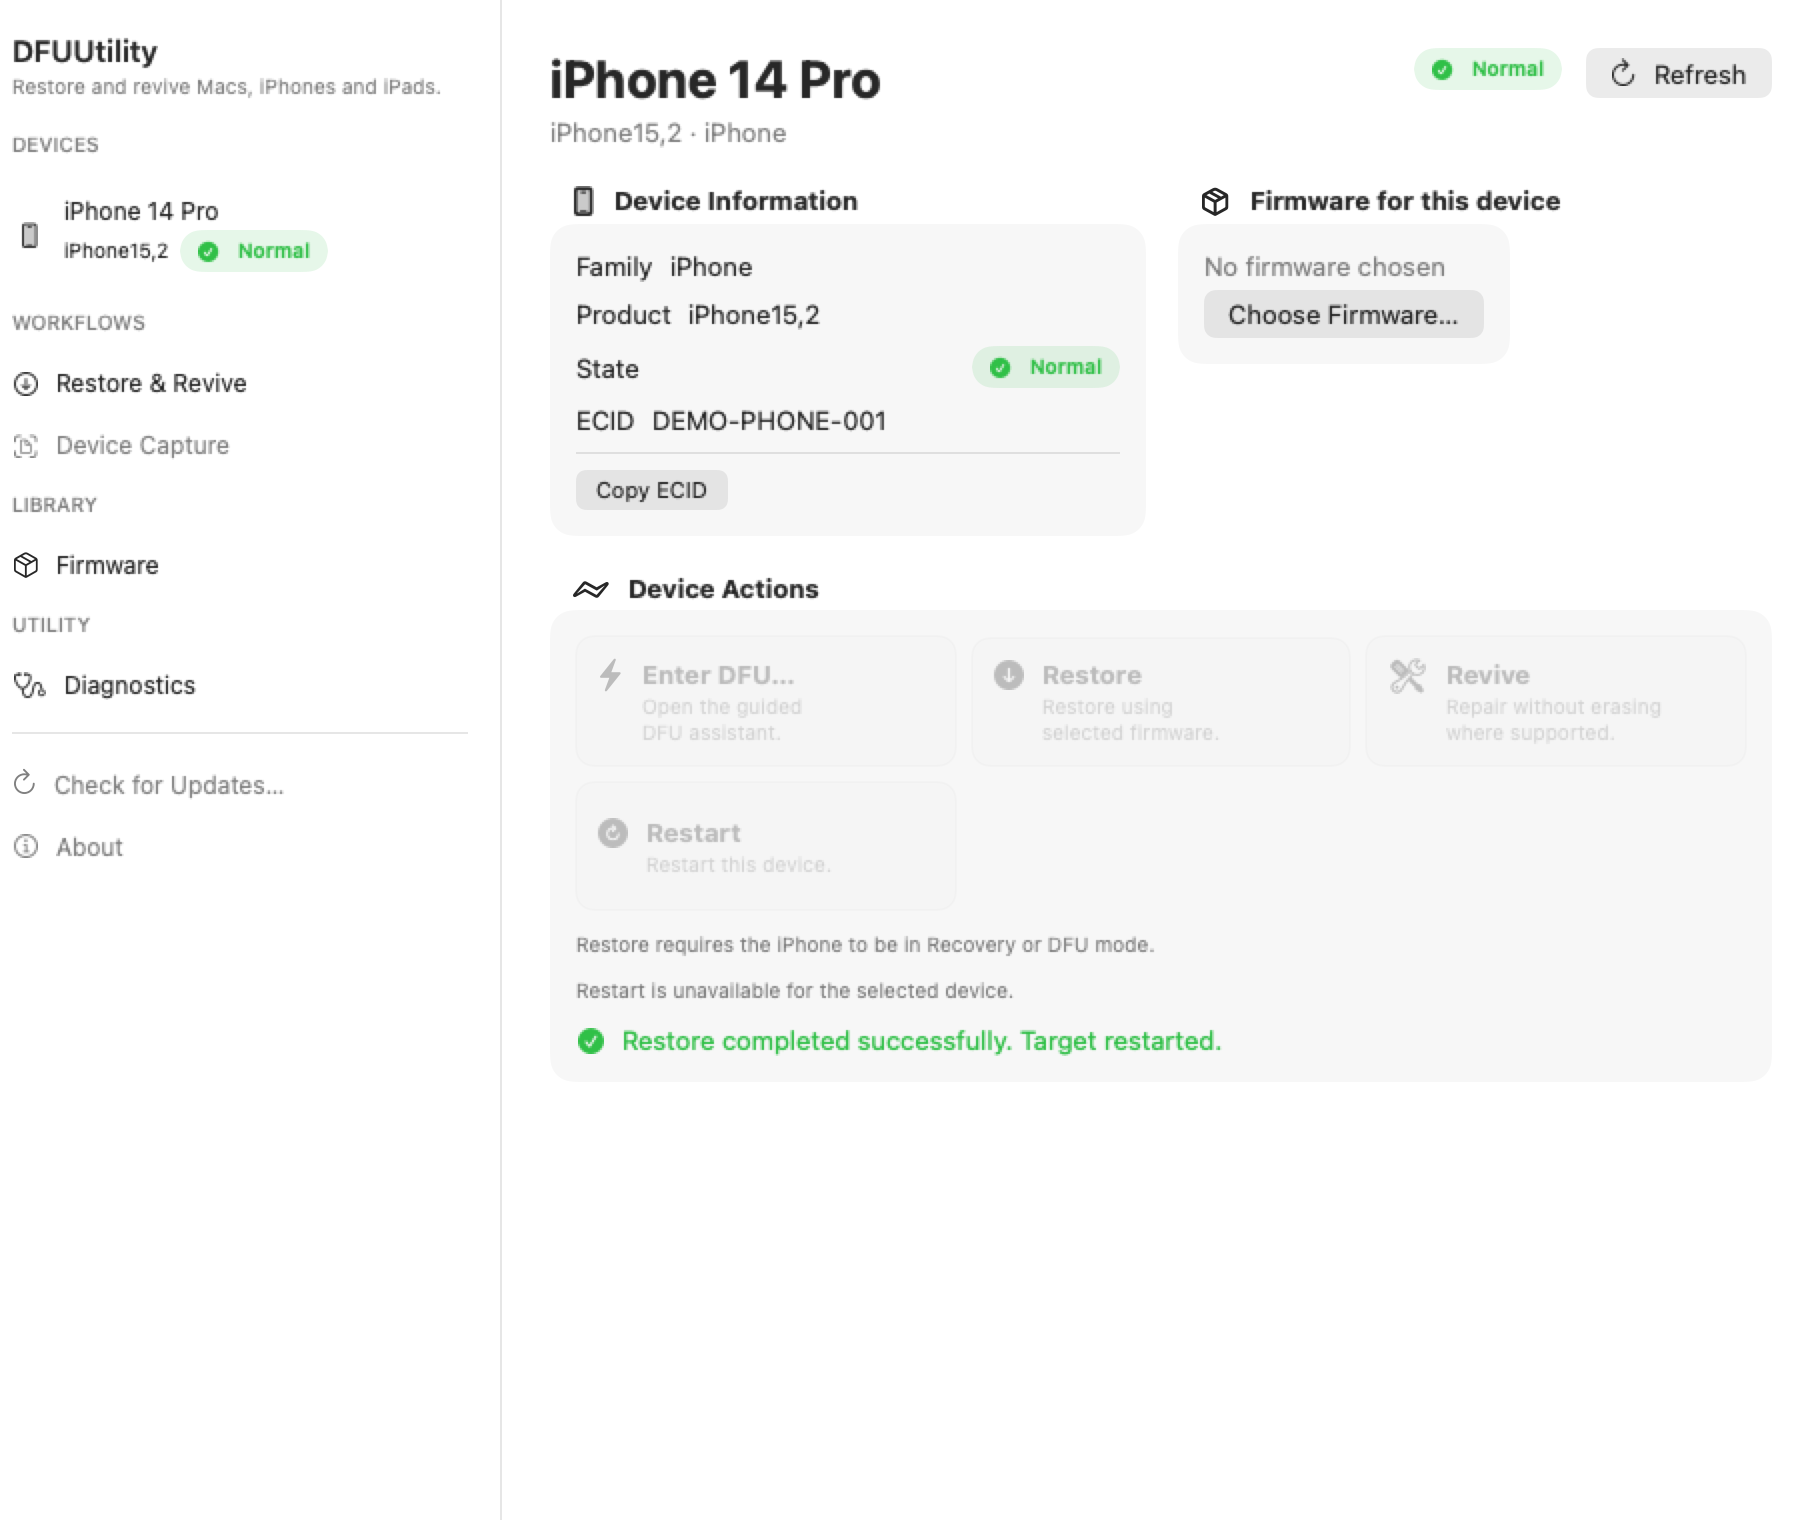
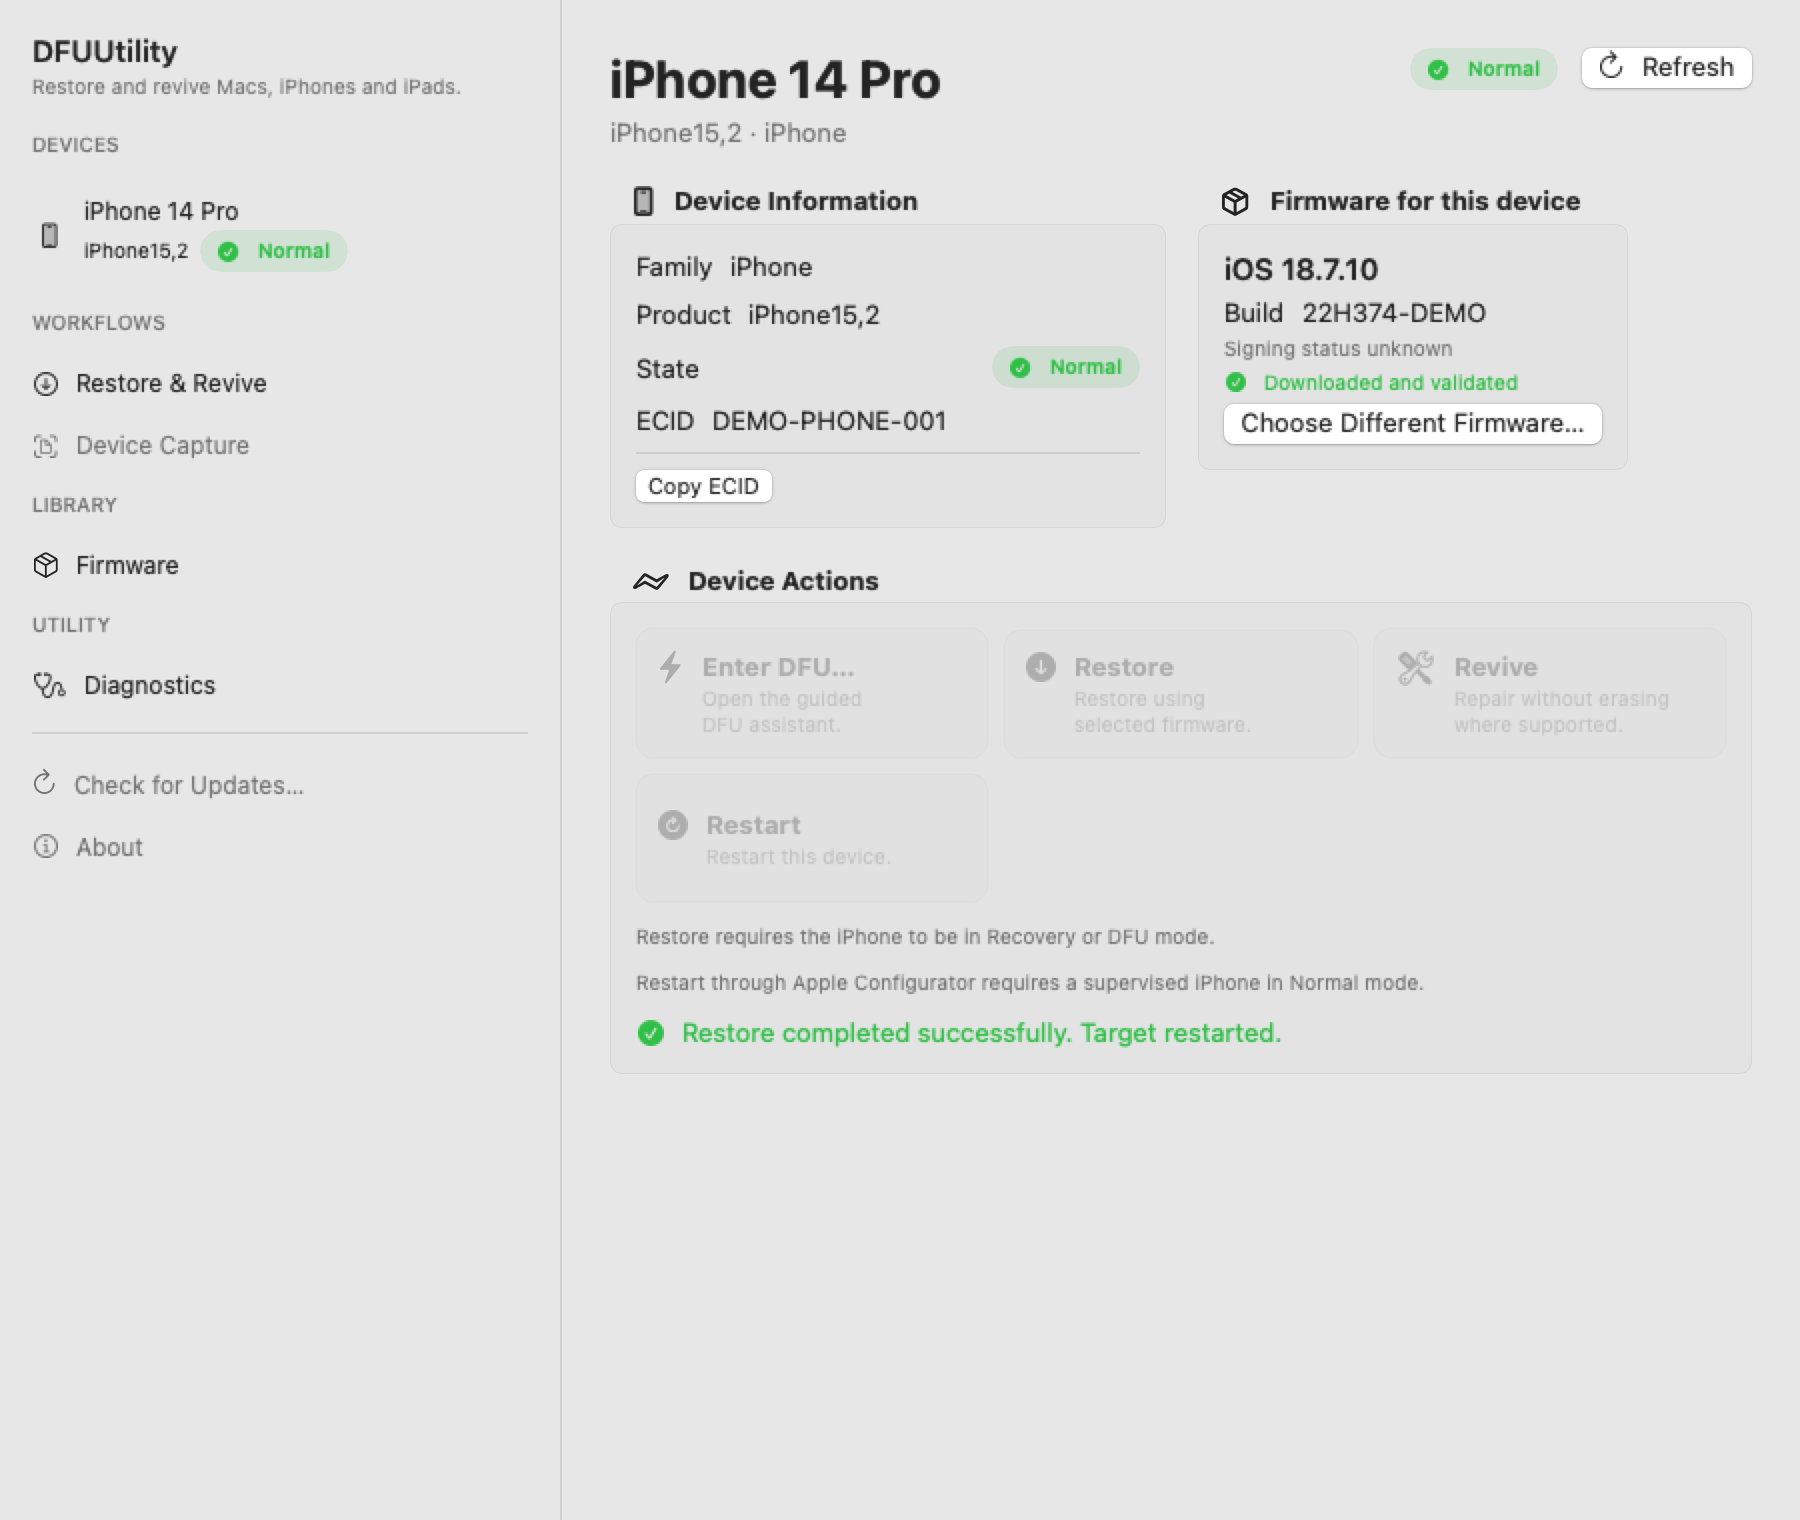
Refresh public documentation and screenshots

diff --git a/Sources/DFUAppSupport/AppModel.swift b/Sources/DFUAppSupport/AppModel.swift
@@ -243,7 +243,11 @@ public final class AppModel: ObservableObject {
         let resolvedMode = privilegeMode ?? (requiresPrivilegedHelperSetup ? PrivilegeModeSelector.select() : .community)
         let sessionManager = DeviceSessionManager()
         self.deviceSessions = sessionManager
-        self.captureSession = DeviceCaptureSession()
+        // Keep demo screenshots reproducible without changing the production
+        // capture clock used by normal launches.
+        self.captureSession = screenshotScenario == nil
+            ? DeviceCaptureSession()
+            : DeviceCaptureSession(now: { Date(timeIntervalSinceReferenceDate: 0) })
         self.batchCoordinator = BatchCoordinator(sessions: sessionManager, operatorService: DefaultBatchTargetOperator(restore: restoreEngine, discovery: discovery, reconnectAttempts: reconnectAttempts, reconnectInterval: reconnectInterval), logger: operationLogger)
         self.updateCoordinator = updateCoordinator ?? UpdateCoordinator()
         self.applicationTerminator = applicationTerminator ?? NoOpApplicationTerminator()
@@ -583,6 +587,22 @@ public final class AppModel: ObservableObject {
         }
         selectedTargetECID = targetDevices.count == 1 ? targetDevices[0].ecid : nil
         if scenario != "multiple-devices" && !isDeviceCaptureScenario { deviceSessions.reconcile(targetDevices) }
+        // Populate the connected-device demo views with the same validated
+        // firmware presentation a technician sees after preparing an image.
+        // This is fixture state only; no production discovery or assignment
+        // behavior is changed.
+        if let session = deviceSessions.sessions.first(where: { $0.isConnected }) {
+            let demoEntry: ManagedIPSWEntry? = if scenario == "normal-mac" || scenario == "mac-dfu" {
+                DemoFirmwareLibrary.cachedEntries.first { $0.release.platform == .macOS }
+            } else if scenario == "restore-progress" || scenario == "progress" || scenario == "completed-restore" || scenario == "completed" {
+                DemoFirmwareLibrary.cachedEntries.first { $0.release.platform == .iOS && $0.release.build == cachedIOS.build }
+            } else {
+                nil
+            }
+            if let demoEntry {
+                deviceSessions.setFirmware(for: session.id, release: demoEntry.release, url: demoEntry.url, validation: .validated)
+            }
+        }
         if scenario == "restore-progress" || scenario == "progress" || scenario == "completed-restore" || scenario == "completed" {
             operationSessionID = detailedSession?.id
         }

diff --git a/Sources/DFUUtilityApp/ContentView.swift b/Sources/DFUUtilityApp/ContentView.swift
@@ -28,6 +28,28 @@ struct ContentView: View {
     init(model: AppModel) {
         self.model = model
         _showVersions = State(initialValue: CommandLine.arguments.contains("--show-version-chooser"))
+        // Screenshot renders are created directly in an NSHostingView, so
+        // SwiftUI's asynchronous `.task` cannot be relied on to select the
+        // intended workspace before the first bitmap is captured. Seed the
+        // presentation destination for deterministic demo images; ordinary
+        // launches retain the Restore & Revive default and normal auto-select.
+        let initialDestination: SidebarDestination = if let scenario = model.screenshotPresentationScenario {
+            switch scenario {
+            case let value where value.hasPrefix("device-capture"): .deviceCapture
+            case "diagnostics": .diagnostics
+            case "firmware-library": .firmware
+            default:
+                if let session = model.deviceSessions.sessions.first(where: { $0.isConnected }),
+                   model.deviceSessions.sessions.filter(\.isConnected).count == 1 {
+                    .device(session.id)
+                } else {
+                    .restoreRevive
+                }
+            }
+        } else {
+            .restoreRevive
+        }
+        _destination = State(initialValue: initialDestination)
     }
 
     var body: some View {

diff --git a/Sources/DFUAppSupport/UpdateSupport.swift b/Sources/DFUAppSupport/UpdateSupport.swift
@@ -142,7 +142,10 @@ public struct ShellUpdateService: UpdateServicing {
 
 #if DEBUG
 public struct SimulatedUpdateService: UpdateServicing {
-    public static let availability = UpdateAvailability(currentVersion: "0.6.1", latestVersion: "0.7.0-test", currentCommit: "update-test-current", latestCommit: "update-test-latest")
+    // Synthetic source-update values keep the demo screenshot representative
+    // of the current release-era UI without contacting GitHub or changing the
+    // production updater's release discovery path.
+    public static let availability = UpdateAvailability(currentVersion: "0.11.0", latestVersion: "0.11.1", currentCommit: "update-test-current", latestCommit: "update-test-latest")
     public init() {}
     public func check(sourceRoot: URL) async throws -> AppUpdateState { .available(Self.availability) }
     public func launch(sourceRoot: URL, oldPID: Int32, appURL: URL, resultURL: URL) throws {}

diff --git a/Sources/DFUAppSupport/DeviceCaptureSession.swift b/Sources/DFUAppSupport/DeviceCaptureSession.swift
@@ -72,8 +72,9 @@ public enum DeviceCaptureQRCode {
 public final class DeviceCaptureSession: ObservableObject {
     @Published public private(set) var records: [DeviceCaptureRecord] = []
     @Published public var isAutomaticCaptureEnabled = false
+    private let now: @Sendable () -> Date
 
-    public init() {}
+    public init(now: @escaping @Sendable () -> Date = Date.init) { self.now = now }
 
     @discardableResult
     public func capture(_ device: DFUDevice, assetTag: String? = nil) -> DeviceCaptureRecord {
@@ -84,7 +85,7 @@ public final class DeviceCaptureSession: ObservableObject {
             records[index] = record
             return record
         }
-        let record = DeviceCaptureRecord(device: device, assetTag: assetTag)
+        let record = DeviceCaptureRecord(capturedAt: now(), device: device, assetTag: assetTag)
         records.append(record)
         return record
     }

diff --git a/Tests/DFUAppSupportTests/UpdateSupportTests.swift b/Tests/DFUAppSupportTests/UpdateSupportTests.swift
@@ -218,7 +218,7 @@ private struct BinaryHTTPFixture: HTTPDataFetching {
     #expect(coordinator.state == .preparing); #expect(coordinator.launchSucceeded)
     coordinator.completeSimulation()
     #expect(coordinator.state == .current)
-    #expect(coordinator.pendingResult == .init(outcome: .success, oldVersion: "0.6.1", newVersion: "0.7.0-test", isSimulation: true))
+    #expect(coordinator.pendingResult == .init(outcome: .success, oldVersion: "0.11.0", newVersion: "0.11.1", isSimulation: true))
 }
 
 @Test func updateAcceptanceArgumentIsRejectedForPackagedApplication() {

diff --git a/README.md b/README.md
@@ -1,32 +1,27 @@
 # DFUUtility
 
-DFUUtility is an open-source native macOS utility for entering supported Macs into DFU mode and restoring or reviving Apple devices with Apple IPSWs.
+DFUUtility is a free, open-source native macOS utility for technicians who
+prepare, recover, restore, and inventory supported Apple devices. It provides
+a guided interface for Mac DFU, iPhone/iPad DFU, Apple firmware, and device
+identity workflows without requiring Git, Swift, Xcode, or direct use of
+Apple's command-line tools for normal operation.
 
-## What does this actually do?
-
-DFUUtility helps you recover, restore, and manage Apple devices from a Mac without needing to know all of Apple's command-line tools.
-
-If a Mac, iPhone, or iPad needs to be restored, revived, put into DFU mode, or have its firmware reinstalled, DFUUtility gives you a graphical interface that guides you through the process.
-
-It's particularly useful for IT technicians managing Apple devices, but it's designed so you don't need to understand the commands happening underneath. It can find connected devices, download the correct Apple firmware, guide you through DFU mode, perform restores and revives, and show you what's happening as it works.
-
-Basically: plug in the Apple device, choose what you need to do, and DFUUtility handles the complicated bits.
-
-For example, if a MacBook won't boot properly, connect it to another Mac, open DFUUtility, follow the instructions to put it into DFU mode, and choose **Revive** or **Restore**. DFUUtility handles the Apple tooling and firmware workflow.
-
-![DFUUtility multi-device workflow](docs/images/multiple-devices.png)
+Connect a device with a data-capable cable, choose the workflow, and follow
+the on-screen checks. DFUUtility keeps destructive actions explicit and shows
+the stage and progress reported by Apple Configurator while it works.
 
 Community releases are ad-hoc signed. No paid Apple Developer account is
 required, but Community builds do not provide Developer ID publisher
 authentication or notarization.
 
-## Features
+## Key capabilities
 
 ### Mac
 
 - Detect Normal, Recovery, and DFU targets and preserve the target ECID across transitions.
 - Enter DFU using the bundled `macvdmtool` and standard macOS administrator authorization.
 - Restore or Revive through Apple Configurator with real stage-local progress and operation logs.
+- Verify the same target before reporting a successful DFU transition.
 
 ### iPhone and iPad
 
@@ -34,6 +29,7 @@ authentication or notarization.
 - Guide supported physical-button DFU sequences without sending device commands.
 - Require same-ECID DFU enumeration before reporting success.
 - Restore compatible validated IPSWs with destructive confirmation and live progress.
+- Perform Recovery Restore on supported iPhone and iPad targets.
 
 ### Firmware management
 
@@ -42,6 +38,12 @@ authentication or notarization.
 - Inspect storage, reveal files, resume partials, and confirm removal in **Manage Downloads…**.
 - Select a local IPSW without placing it under DFUUtility's cache management.
 - Automatically assign an exact compatible validated cached IPSW to a newly discovered iPhone or iPad without selecting the device or starting an operation.
+
+### Technician workspace
+
+- Work with multiple connected devices as independent sessions and run an explicitly selected Restore, Revive, or Restart batch sequentially.
+- Capture read-only device identifiers, add an internal asset tag, generate an exact-serial QR code, and export CSV.
+- Inspect Diagnostics and Host Readiness guidance for Apple Configurator, bundled tools, accessory authorization, and sanitized support reports.
 
 ### Safety
 
@@ -63,27 +65,53 @@ Batch execution is intentionally sequential in this first implementation. Parall
 
 ## Screenshots
 
-| Guided iPhone DFU | Guided iPad DFU |
-| --- | --- |
-| ![Guided iPhone DFU](docs/images/iphone-guided-dfu.png) | ![Guided iPad DFU](docs/images/ipad-guided-dfu.png) |
+The gallery below uses the deterministic demo mode shipped with the project.
+All identities are fictional and the views show the same navigation and safety
+gates used by the app.
 
-| Firmware chooser | Manage Downloads |
+| Restore & Revive | Device workspace |
 | --- | --- |
-| ![Compatible firmware chooser](docs/images/firmware-chooser.png) | ![Managed firmware cache](docs/images/manage-downloads.png) |
+| ![Restore and Revive workspace](docs/images/multiple-devices.png) | ![Connected Mac workspace](docs/images/normal-mac.png) |
 
-| Download progress | Restore progress |
+| Firmware Library | Device Capture |
 | --- | --- |
-| ![Firmware download progress](docs/images/download-progress.png) | ![Structured Restore progress](docs/images/restore-progress.png) |
+| ![Firmware Library](docs/images/firmware-library.png) | ![Device Capture and identifiers](docs/images/device-capture-default.png) |
 
-| Completed Restore |
-| --- |
-| ![Completed Restore and returned target](docs/images/completed-restore.png) |
+| Diagnostics / Host Readiness | Guided mobile DFU |
+| --- | --- |
+| ![Diagnostics and Host Readiness](docs/images/diagnostics.png) | ![Guided iPhone DFU](docs/images/iphone-guided-dfu.png) |
+
+| Guided iPad DFU | Firmware chooser |
+| --- | --- |
+| ![Guided iPad DFU](docs/images/ipad-guided-dfu.png) | ![Compatible firmware chooser](docs/images/firmware-chooser.png) |
+
+| Download progress | Manage Downloads |
+| --- | --- |
+| ![Firmware download progress](docs/images/download-progress.png) | ![Managed firmware cache](docs/images/manage-downloads.png) |
+
+| Restore progress | Completed Restore |
+| --- | --- |
+| ![Structured Restore progress](docs/images/restore-progress.png) | ![Completed Restore and returned target](docs/images/completed-restore.png) |
+
+| About and licensing | Source-checkout update |
+| --- | --- |
+| ![About and licensing](docs/images/about.png) | ![Source-checkout update](docs/images/update.png) |
 
 All screenshots use deterministic fictional data; they contain no real device or user identifiers.
 
-## Installation
+## Requirements
 
-Requirements: macOS 14 or newer, [Apple Configurator](https://apps.apple.com/app/apple-configurator/id1037126344), a data-capable cable, and internet access for automatic firmware downloads. The current Mac DFU workflow requires an Apple Silicon host. Administrator authorization is requested only when entering a Mac into DFU.
+- macOS 14 or newer.
+- Apple Configurator from the [Mac App Store](https://apps.apple.com/app/apple-configurator/id1037126344) for discovery, Restore, and Revive.
+- A direct, data-capable USB connection. Charging-only cables and some hubs do not provide a usable restore transport.
+- An Apple-silicon Mac host for automatic Mac DFU entry. Mac DFU port requirements are model-specific; follow Apple's guidance and the tested-hardware notes below.
+- Administrator authorization only when entering a Mac into DFU. Mobile DFU uses physical button input.
+- Internet access only when browsing or downloading firmware from Apple's catalogues.
+
+DFUUtility does not claim universal Apple hardware support. Physical acceptance
+applies only to the products and workflows listed in [HardwareAcceptance.json](Config/HardwareAcceptance.json).
+
+## Installation
 
 ### End-user installation
 
@@ -192,13 +220,43 @@ scripts/update.sh --test     # Run the repository tests before installation
 
 The flags may be combined. In-app and shell updates are intended for clean end-user clones. Contributors with local changes or feature branches should manage their Git checkout manually; the updater never stashes, resets, cleans, switches branches, or discards work.
 
-## Usage
+## Using DFUUtility
 
-1. Connect the target with a data-capable cable and select it if more than one device is attached.
-2. Choose compatible Apple firmware with **Change Version…**, or use **Choose Local IPSW…**.
-3. Download and validate the image if needed.
-4. Enter DFU: Mac entry is initiated by the app; supported iPhone/iPad entry follows the guided physical-button assistant.
-5. Choose Revive where supported, or confirm Restore.
+### Select and prepare a device
+
+Connect the target with a data-capable cable. With one device, DFUUtility
+selects it for the detail workspace; with multiple devices, select the target
+explicitly. The **Firmware Library** can also be browsed before any device is
+connected.
+
+### Choose and validate firmware
+
+For a connected target, use **Choose Firmware…** or **Change Version…** to see
+exact ProductType-compatible releases, or choose a local IPSW. Downloaded
+images are validated before they become Restore-ready. The independent
+Firmware Library can browse macOS, iOS, and iPadOS, download images, validate
+them, and open **Manage Downloads…** without changing a device's selection.
+
+### Enter DFU
+
+Mac entry is initiated by DFUUtility on an Apple-silicon host. Supported
+iPhone/iPad entry follows the guided physical-button assistant; the assistant
+does not press buttons or send an unverified device command for you.
+
+### Restore, Revive, and Recovery Restore
+
+Choose **Revive** where the current device state supports it. **Restore** is a
+separate, explicitly confirmed destructive action and requires a validated
+compatible IPSW. Supported mobile Recovery targets use the same exact-device
+Restore path and checks. Progress is stage-local and comes from Apple
+Configurator; DFUUtility does not invent an overall percentage.
+
+### Multiple devices and capture
+
+Use **Restore & Revive** to select devices and run a sequential batch. Each
+operation is explicitly targeted and remains per-device. Use **Device Capture**
+for read-only identifiers, asset tags, serial-number QR codes, and CSV export;
+capture never changes batch selection or device state.
 
 If Mac Enter DFU reports that the final VDM reply was not received, the target may already have transitioned. Wait briefly and click **Refresh**. If it remains absent, reconnect the cable. USB-C/DFU port behavior varies by model, so consult [Apple's model-specific DFU-port guidance](https://support.apple.com/en-us/108900) rather than assuming every MacBook uses the same port.
 
